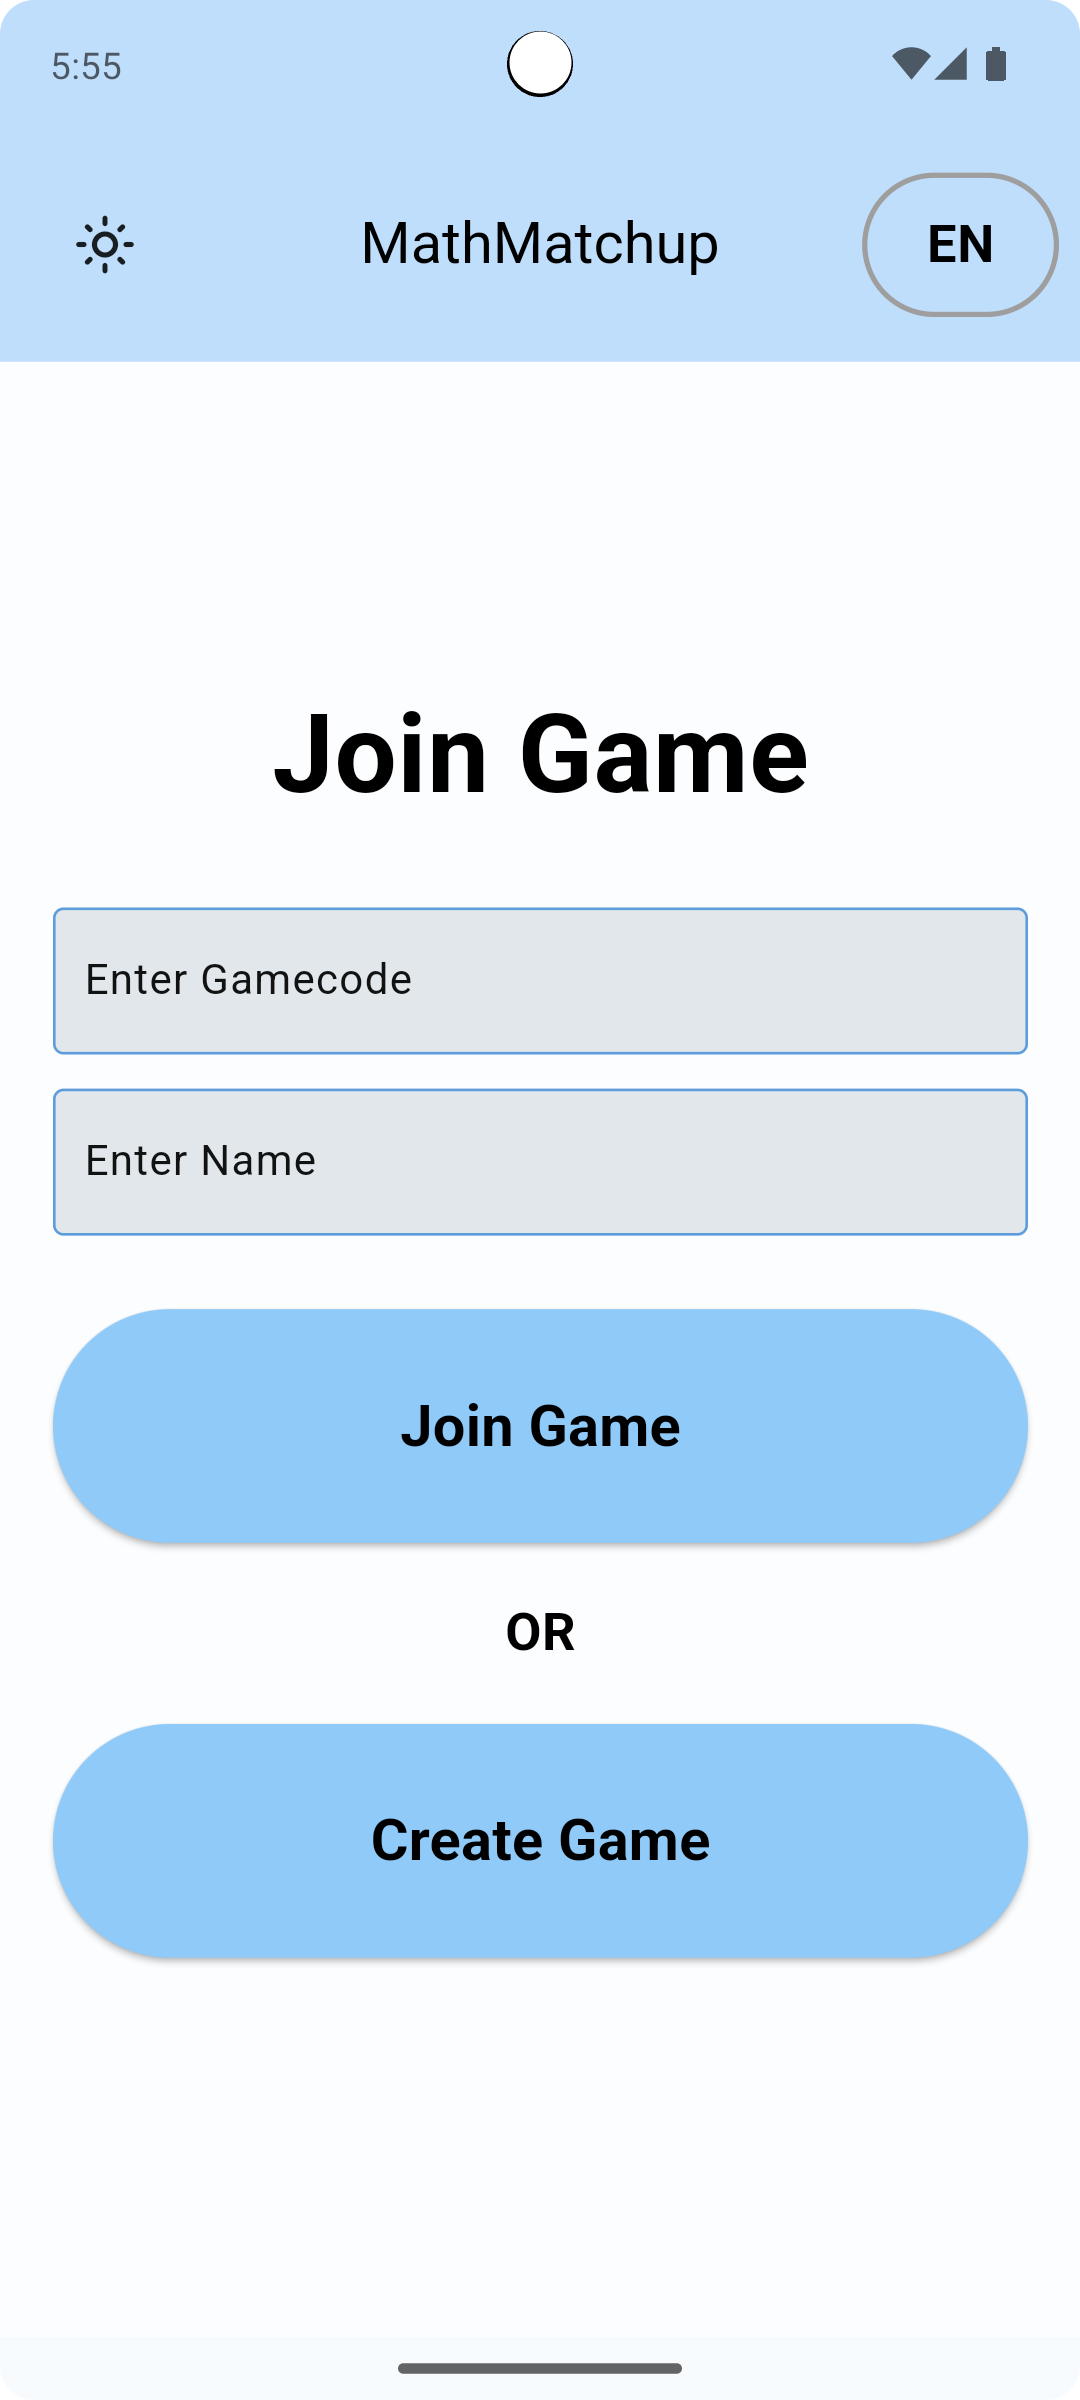
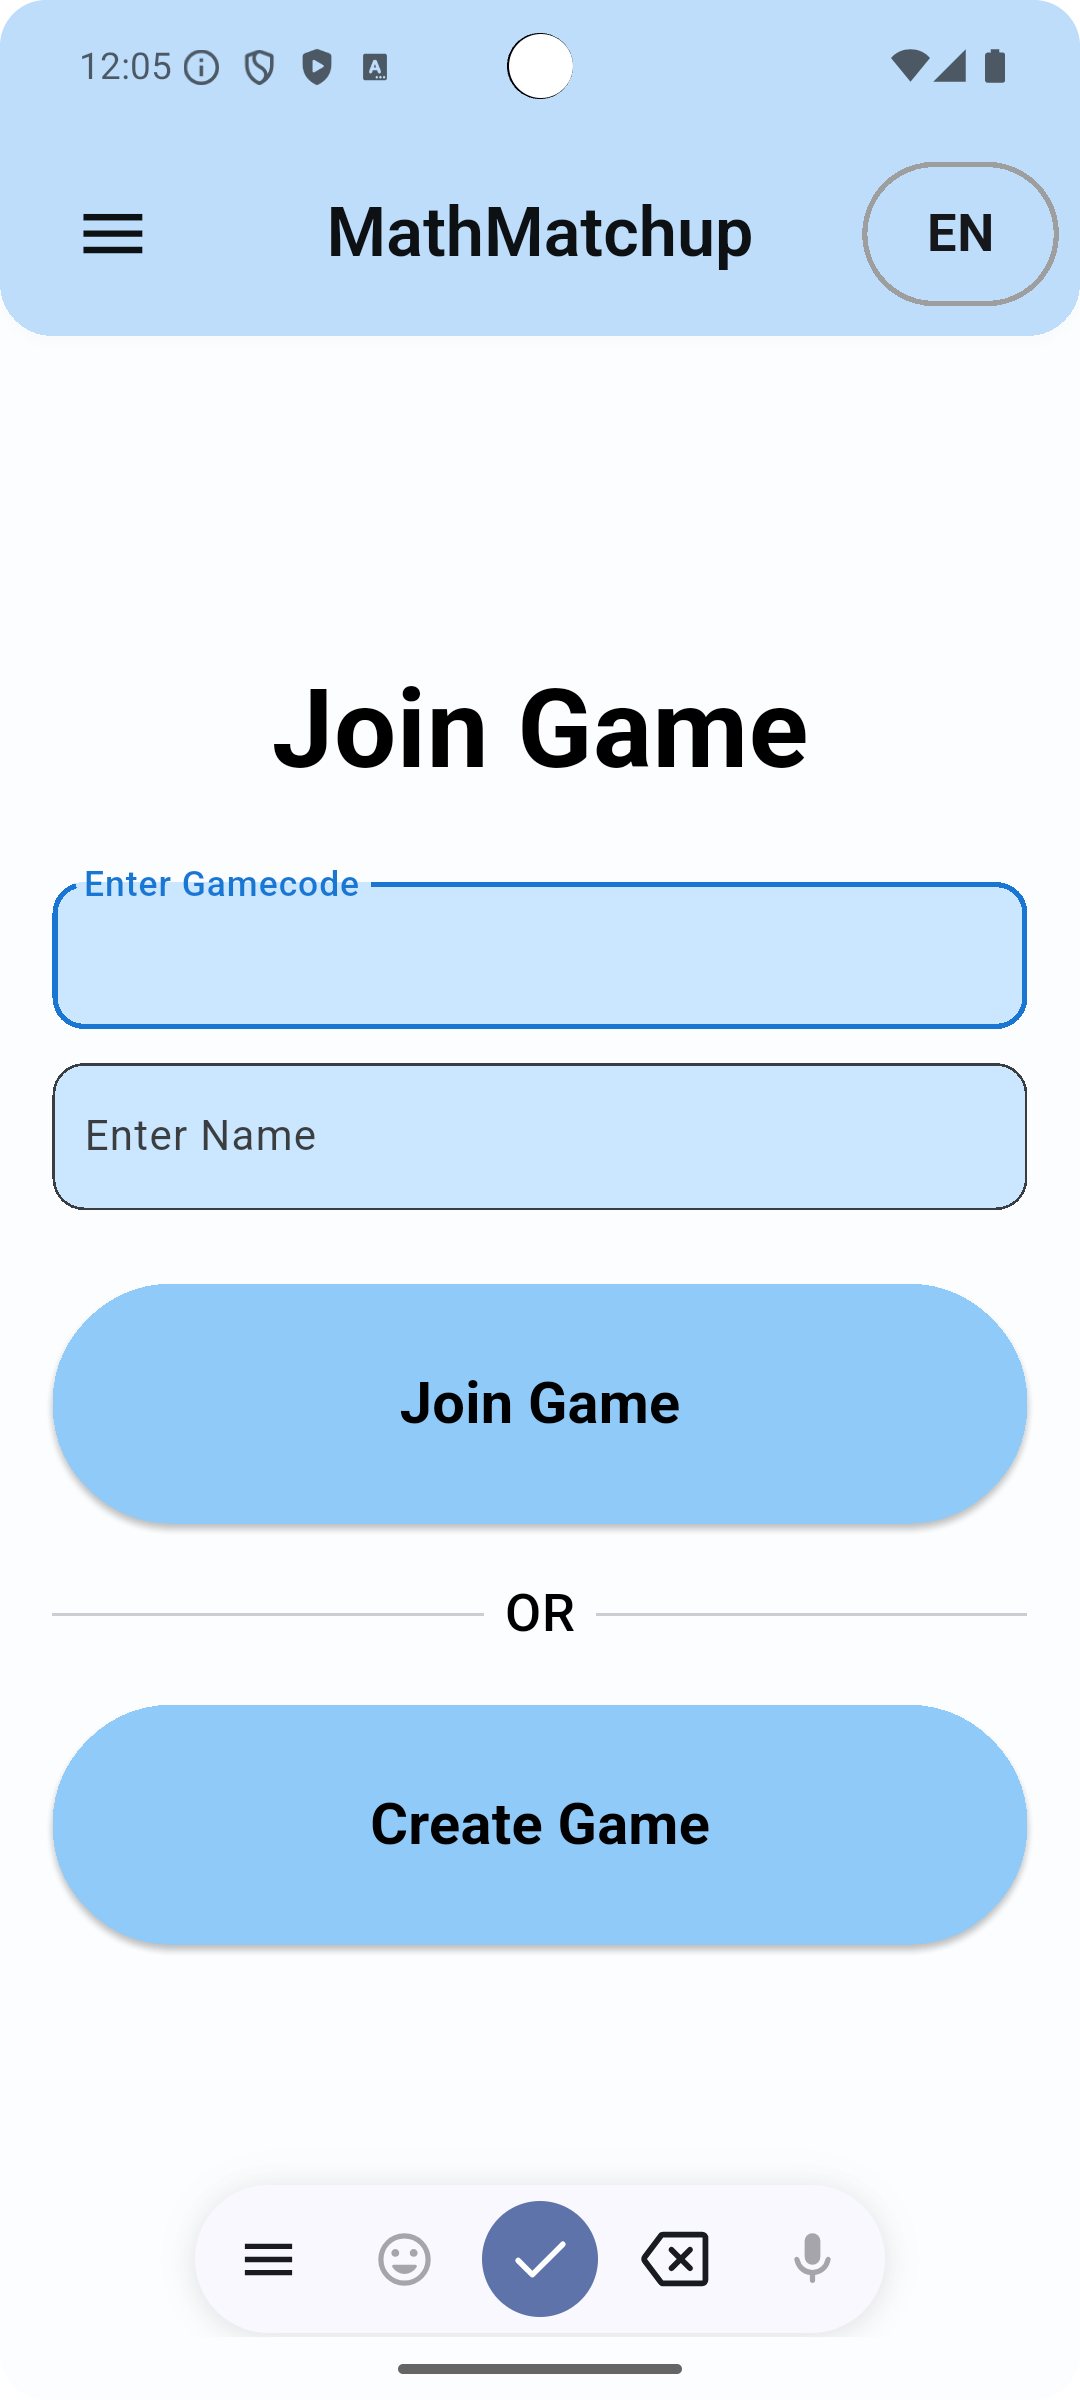
Theme Updates and Homescreen UI Overhaul

diff --git a/math_matchup/lib/src/utils/themes.dart b/math_matchup/lib/src/utils/themes.dart
@@ -32,10 +32,39 @@ ThemeData lightTheme(LightThemeRef lightThemeRef) {
       blendOnLevel: 10,
       blendOnColors: false,
       useTextTheme: true,
-      elevatedButtonSchemeColor: SchemeColor.primaryContainer,
+  //    elevatedButtonSchemeColor: SchemeColor.primaryContainer,
       elevatedButtonElevation: 2,
-      elevatedButtonSecondarySchemeColor: SchemeColor.primaryContainer,
-      appBarBackgroundSchemeColor: SchemeColor.secondaryContainer,
+     elevatedButtonSecondarySchemeColor: SchemeColor.primaryContainer,
+      appBarBackgroundSchemeColor: SchemeColor.primaryContainer,
+      inputDecoratorBorderType: FlexInputBorderType.outline,
+      inputDecoratorRadius: 8,
+      inputDecoratorUnfocusedHasBorder: true,
+      inputDecoratorSchemeColor: SchemeColor.secondaryContainer,
+      //TOOO fix the little text when you click on the textfield because it now turns somewhat invisible
+      cardRadius: 12,
+      cardElevation: 4,
+      chipRadius: 8,
+      elevatedButtonSchemeColor: SchemeColor.primary,
+      outlinedButtonSchemeColor: SchemeColor.primary,
+      textButtonSchemeColor: SchemeColor.primary,
+      switchSchemeColor: SchemeColor.primary,
+      checkboxSchemeColor: SchemeColor.primary,
+      radioSchemeColor: SchemeColor.primary,
+      sliderBaseSchemeColor: SchemeColor.primary,
+      chipSchemeColor: SchemeColor.primaryContainer,
+      sliderTrackHeight: 4,
+      navigationBarLabelBehavior: NavigationDestinationLabelBehavior.alwaysHide,
+      bottomSheetRadius: 24,
+      dialogRadius: 16,
+      tooltipRadius: 8,
+      tooltipSchemeColor: SchemeColor.tertiary,
+      snackBarBackgroundSchemeColor: SchemeColor.inversePrimary,
+      buttonMinSize: Size(48, 48),
+      tooltipOpacity: 0.9,
+      inputDecoratorIsFilled: true,
+      snackBarRadius: 12,
+      appBarScrolledUnderElevation: 6,
+      appBarForegroundSchemeColor: SchemeColor.onSecondaryContainer,
   ),
     visualDensity: FlexColorScheme.comfortablePlatformDensity,
     useMaterial3: true,
@@ -64,6 +93,15 @@ ThemeData lightTheme(LightThemeRef lightThemeRef) {
         ),
       )
    // textTheme: Typography.material2021(platform: defaultTargetPlatform).black,
+  ).copyWith(
+    appBarTheme: const AppBarTheme(
+      centerTitle: true,
+      backgroundColor: Color(0xffcbe6ff),
+      elevation: 3,
+      shape: RoundedRectangleBorder(
+        borderRadius: BorderRadius.vertical(bottom: Radius.circular(20)),
+      ),
+    ),
   );
 }
 ///Dark mode color themes and properties for the app.
@@ -71,12 +109,12 @@ ThemeData lightTheme(LightThemeRef lightThemeRef) {
 ThemeData darkTheme(DarkThemeRef darkThemeRef) {
   return FlexThemeData.dark(
     colors: const FlexSchemeColor(
-      primary: Color(0xff90caf9),
-      primaryContainer: Color(0xff0d47a1),
-      secondary: Color(0xff81d4fa),
-      secondaryContainer: Color(0xff004b73),
-      tertiary: Color(0xffe1f5fe),
-      tertiaryContainer: Color(0xff1a567d),
+      primary: Color(0xff90caf9),             // light version of 0xff1976d2
+      primaryContainer: Color(0xff0d47a1),     // dark version of 0xff90caf9
+      secondary: Color(0xff81d4fa),            // light version of 0xff039be5
+      secondaryContainer: Color(0xff004b73),   // dark version of 0xffcbe6ff
+      tertiary: Color(0xffe1f5fe),             // light version of 0xff0277bd
+      tertiaryContainer: Color(0xff1a567d),    // dark version of 0xffbedcff
       appBarColor: Color(0xff004b73),
       error: Color(0xffcf6679),
     ),
@@ -84,38 +122,73 @@ ThemeData darkTheme(DarkThemeRef darkThemeRef) {
     blendLevel: 13,
     subThemesData: const FlexSubThemesData(
       blendOnLevel: 20,
+      blendOnColors: false,
       useTextTheme: true,
-      elevatedButtonSchemeColor: SchemeColor.primaryContainer,
       elevatedButtonElevation: 2,
       elevatedButtonSecondarySchemeColor: SchemeColor.primaryContainer,
-      appBarBackgroundSchemeColor: SchemeColor.secondaryContainer,
+      appBarBackgroundSchemeColor: SchemeColor.primaryContainer,
+      appBarForegroundSchemeColor: SchemeColor.onSecondaryContainer,
+      inputDecoratorBorderType: FlexInputBorderType.outline,
+      inputDecoratorRadius: 8,
+      inputDecoratorUnfocusedHasBorder: true,
+      inputDecoratorSchemeColor: SchemeColor.secondaryContainer,
+      inputDecoratorIsFilled: true,
+      cardRadius: 12,
+      cardElevation: 4,
+      chipRadius: 8,
+      elevatedButtonSchemeColor: SchemeColor.primary,
+      outlinedButtonSchemeColor: SchemeColor.primary,
+      textButtonSchemeColor: SchemeColor.primary,
+      switchSchemeColor: SchemeColor.primary,
+      checkboxSchemeColor: SchemeColor.primary,
+      radioSchemeColor: SchemeColor.primary,
+      sliderBaseSchemeColor: SchemeColor.primary,
+      chipSchemeColor: SchemeColor.primaryContainer,
+      sliderTrackHeight: 4,
+      navigationBarLabelBehavior: NavigationDestinationLabelBehavior.alwaysHide,
+      bottomSheetRadius: 24,
+      dialogRadius: 16,
+      tooltipRadius: 8,
+      tooltipSchemeColor: SchemeColor.tertiary,
+      snackBarBackgroundSchemeColor: SchemeColor.inversePrimary,
+      snackBarRadius: 12,
+      tooltipOpacity: 0.9,
+      appBarScrolledUnderElevation: 6,
     ),
     visualDensity: FlexColorScheme.comfortablePlatformDensity,
     useMaterial3: true,
     appBarElevation: 5,
     typography: Typography.material2021(platform: defaultTargetPlatform),
-  textTheme: TextTheme(
-    headlineLarge: TextStyle(
-      fontSize: 42,
-      fontWeight: FontWeight.bold,
-      color: Colors.grey[350],
+    textTheme: const TextTheme(
+      headlineLarge: TextStyle(
+        fontSize: 42,
+        fontWeight: FontWeight.bold,
+        color: Colors.white,
+      ),
+      headlineMedium: TextStyle(
+        fontSize: 35,
+        fontWeight: FontWeight.w600,
+        color: Colors.white,
+      ),
+      displayLarge: TextStyle(
+        fontSize: 22,
+        fontWeight: FontWeight.bold,
+        color: Colors.white,
+      ),
+      displayMedium: TextStyle(
+        fontSize: 20,
+        fontWeight: FontWeight.w400,
+        color: Colors.white,
+      ),
     ),
-    displayLarge: TextStyle(
-      fontSize: 22,
-      fontWeight: FontWeight.bold,
-      color: Colors.grey[350],
+  ).copyWith(
+    appBarTheme: const AppBarTheme(
+      centerTitle: true,
+      backgroundColor: Color(0xff004b73),
+      elevation: 3,
+      shape: RoundedRectangleBorder(
+        borderRadius: BorderRadius.vertical(bottom: Radius.circular(20)),
+      ),
     ),
-    displayMedium: TextStyle(
-      fontSize: 20,
-      fontWeight: FontWeight.w400,
-      color: Colors.grey[350],
-    ),
-    headlineMedium: TextStyle(
-      fontSize: 35,
-      fontWeight: FontWeight.w600,
-      color: Colors.grey[350],
-    ),
-  )
-  //  textTheme: Typography.material2021(platform: defaultTargetPlatform).white,
   );
 }

diff --git a/math_matchup/lib/src/features/homescreen/presentation/homescreen.dart b/math_matchup/lib/src/features/homescreen/presentation/homescreen.dart
@@ -6,6 +6,7 @@
  */
 
 import 'package:flutter/material.dart';
+import 'package:flutter/services.dart';
 import 'package:flutter_riverpod/flutter_riverpod.dart';
 import 'package:go_router/go_router.dart';
 import 'package:math_matchup/src/common_widgets/custom_dropdown.dart';
@@ -132,9 +133,18 @@ class _HomeScreenState extends ConsumerState<HomeScreen> {
         actions: [
          CustomDropdown(items: locales, selectedItem: ref.watch(localeProvider.notifier).state)
         ],
-        toolbarHeight: MediaQuery.of(context).size.height * .1,
-        title: Text(S.of(context).welcomeToMathmatchup),
+        elevation: 3,
+        shadowColor: Colors.black.withOpacity(0.05),
+        toolbarHeight: MediaQuery.of(context).size.height * .085,
+        title: Text(S.of(context).welcomeToMathmatchup, style: TextStyle(
+          fontSize: 26,
+          fontWeight: FontWeight.w600,
+          color: theme.colorScheme.onPrimaryContainer,
+        ),),
         centerTitle: true,
+        shape: const RoundedRectangleBorder(
+          borderRadius: BorderRadius.vertical(bottom: Radius.circular(20)),
+        ),
       ),
       body: SafeArea(
         minimum: const EdgeInsets.all(20.0),
@@ -158,6 +168,12 @@ class _HomeScreenState extends ConsumerState<HomeScreen> {
                 const SizedBox(height: 20,),
                 TextField(
                  controller: gameCodeController,
+                  // maxLength: 6,
+                  // maxLengthEnforcement: MaxLengthEnforcement.enforced,
+                  maxLines: 1,
+                  textAlign: TextAlign.center,
+                  textAlignVertical: TextAlignVertical.center,
+                  inputFormatters: [FilteringTextInputFormatter.digitsOnly],
                  keyboardType: TextInputType.number,
                   onChanged: (value) {
                     setState(() {
@@ -166,8 +182,20 @@ class _HomeScreenState extends ConsumerState<HomeScreen> {
                   },
                   decoration: InputDecoration(
                     labelText: S.of(context).enterGamecode,
+                    floatingLabelStyle: TextStyle(
+                      color: theme.colorScheme.primary,
+                      fontSize: 18,
+                      fontWeight: FontWeight.w500,
+                    ),
                     errorText: _gameCodeError,
-                    border: const OutlineInputBorder(),
+                    border: OutlineInputBorder(
+                      borderRadius: BorderRadius.circular(12),
+                      borderSide: BorderSide(color: theme.colorScheme.primary),
+                    ),
+                    focusedBorder: OutlineInputBorder(
+                      borderRadius: BorderRadius.circular(12),
+                      borderSide: BorderSide(color: theme.colorScheme.primary, width: 2),
+                    ),
                   ),
                 ),
                 const SizedBox(height: 5,),
@@ -184,14 +212,25 @@ class _HomeScreenState extends ConsumerState<HomeScreen> {
                     decoration: InputDecoration(
                       labelText: S.of(context).enterName,
                       errorText: _nameError,
-                      border: const OutlineInputBorder(),
-
+                      floatingLabelStyle: TextStyle(
+                        color: theme.colorScheme.primary,
+                        fontSize: 18,
+                        fontWeight: FontWeight.w500,
+                      ),
+                      border: OutlineInputBorder(
+                        borderRadius: BorderRadius.circular(12),
+                        borderSide: BorderSide(color: theme.colorScheme.primary),
+                      ),
+                      focusedBorder: OutlineInputBorder(
+                        borderRadius: BorderRadius.circular(12),
+                        borderSide: BorderSide(color: theme.colorScheme.primary, width: 2),
+                      ),
                     ),
                   ),
                 ),
                 const SizedBox(height: 20,),
                 SizedBox(
-                  width: MediaQuery.of(context).size.width,
+                  width: double.infinity,
                   height: MediaQuery.of(context).size.height * .1,
                   child: ElevatedButton(
                     onPressed: () async {
@@ -206,11 +245,23 @@ class _HomeScreenState extends ConsumerState<HomeScreen> {
                   ),
                 ),
                 const SizedBox(height: 20,),
-                Text("OR", style: TextStyle(fontSize: 20, fontWeight: FontWeight.bold, color: textTheme.headlineLarge?.color,),),
+                Row(
+                  children: [
+                    const Expanded(child: Divider(thickness: 1)),
+                    Padding(
+                      padding: const EdgeInsets.symmetric(horizontal: 8),
+                      child: Text(S.of(context).or, style: textTheme.displayMedium?.copyWith(
+                        fontSize: 20,
+                        fontWeight: FontWeight.w500,
+                      ),),
+                    ),
+                    const Expanded(child: Divider(thickness: 1)),
+                  ],
+                ),
                 Padding(
                   padding: const EdgeInsets.fromLTRB(0, 20, 0, 5),
                   child: SizedBox(
-                    width: MediaQuery.of(context).size.width,
+                    width: double.infinity,
                     height: MediaQuery.of(context).size.height * .1,
                     child: ElevatedButton(
                         child: Text(S.of(context).createGame,

diff --git a/math_matchup/lib/src/utils/themes.g.dart b/math_matchup/lib/src/utils/themes.g.dart
@@ -1,10 +1,3 @@
-/*
- * Copyright (c) 2025 by Brendan Haran, All Rights Reserved.
- * Use of this file or any of its contents is strictly prohibited without prior written permission from Brendan Haran.
- * Current File (themes.g.dart) Last Modified on 3/30/25, 8:24 PM
- *
- */
-
 // GENERATED CODE - DO NOT MODIFY BY HAND
 
 part of 'themes.dart';
@@ -13,7 +6,7 @@ part of 'themes.dart';
 // RiverpodGenerator
 // **************************************************************************
 
-String _$lightThemeHash() => r'3c6e6cab9fae7aff6101241f8dc5ed8a025cd9a1';
+String _$lightThemeHash() => r'b1118418fe7e17f6edd1419de2d4a6e07db340e7';
 
 ///All of the Color themes and properties for the app are stored here to make sure the same feel is on every page.
 ///
@@ -31,7 +24,7 @@ final lightThemeProvider = AutoDisposeProvider<ThemeData>.internal(
 @Deprecated('Will be removed in 3.0. Use Ref instead')
 // ignore: unused_element
 typedef LightThemeRef = AutoDisposeProviderRef<ThemeData>;
-String _$darkThemeHash() => r'03614d6efcab412be83597593ca6e059b2156294';
+String _$darkThemeHash() => r'ded567388d9beafe0bdb8457e65b0568f097c710';
 
 ///Dark mode color themes and properties for the app.
 ///

diff --git a/math_matchup/lib/src/utils/router.g.dart b/math_matchup/lib/src/utils/router.g.dart
@@ -1,10 +1,3 @@
-/*
- * Copyright (c) 2025 by Brendan Haran, All Rights Reserved.
- * Use of this file or any of its contents is strictly prohibited without prior written permission from Brendan Haran.
- * Current File (router.g.dart) Last Modified on 3/30/25, 8:24 PM
- *
- */
-
 // GENERATED CODE - DO NOT MODIFY BY HAND
 
 part of 'router.dart';
@@ -13,7 +6,7 @@ part of 'router.dart';
 // RiverpodGenerator
 // **************************************************************************
 
-String _$goRouterHash() => r'98b915a36fddb31d4e329279d95a38e9f49e0cc9';
+String _$goRouterHash() => r'250e35ae48f8d53c761db5a3e8dcdd9e9319ca64';
 
 /// This is the main router for the app, used to navigate between screens. Can transfer data, if needed.
 ///

diff --git a/math_matchup/lib/src/app.dart b/math_matchup/lib/src/app.dart
@@ -7,6 +7,7 @@
  *
  */
 
+import 'package:flex_color_scheme/flex_color_scheme.dart';
 import 'package:flutter/material.dart';
 import 'package:flutter_localizations/flutter_localizations.dart';
 import 'package:flutter_riverpod/flutter_riverpod.dart';
